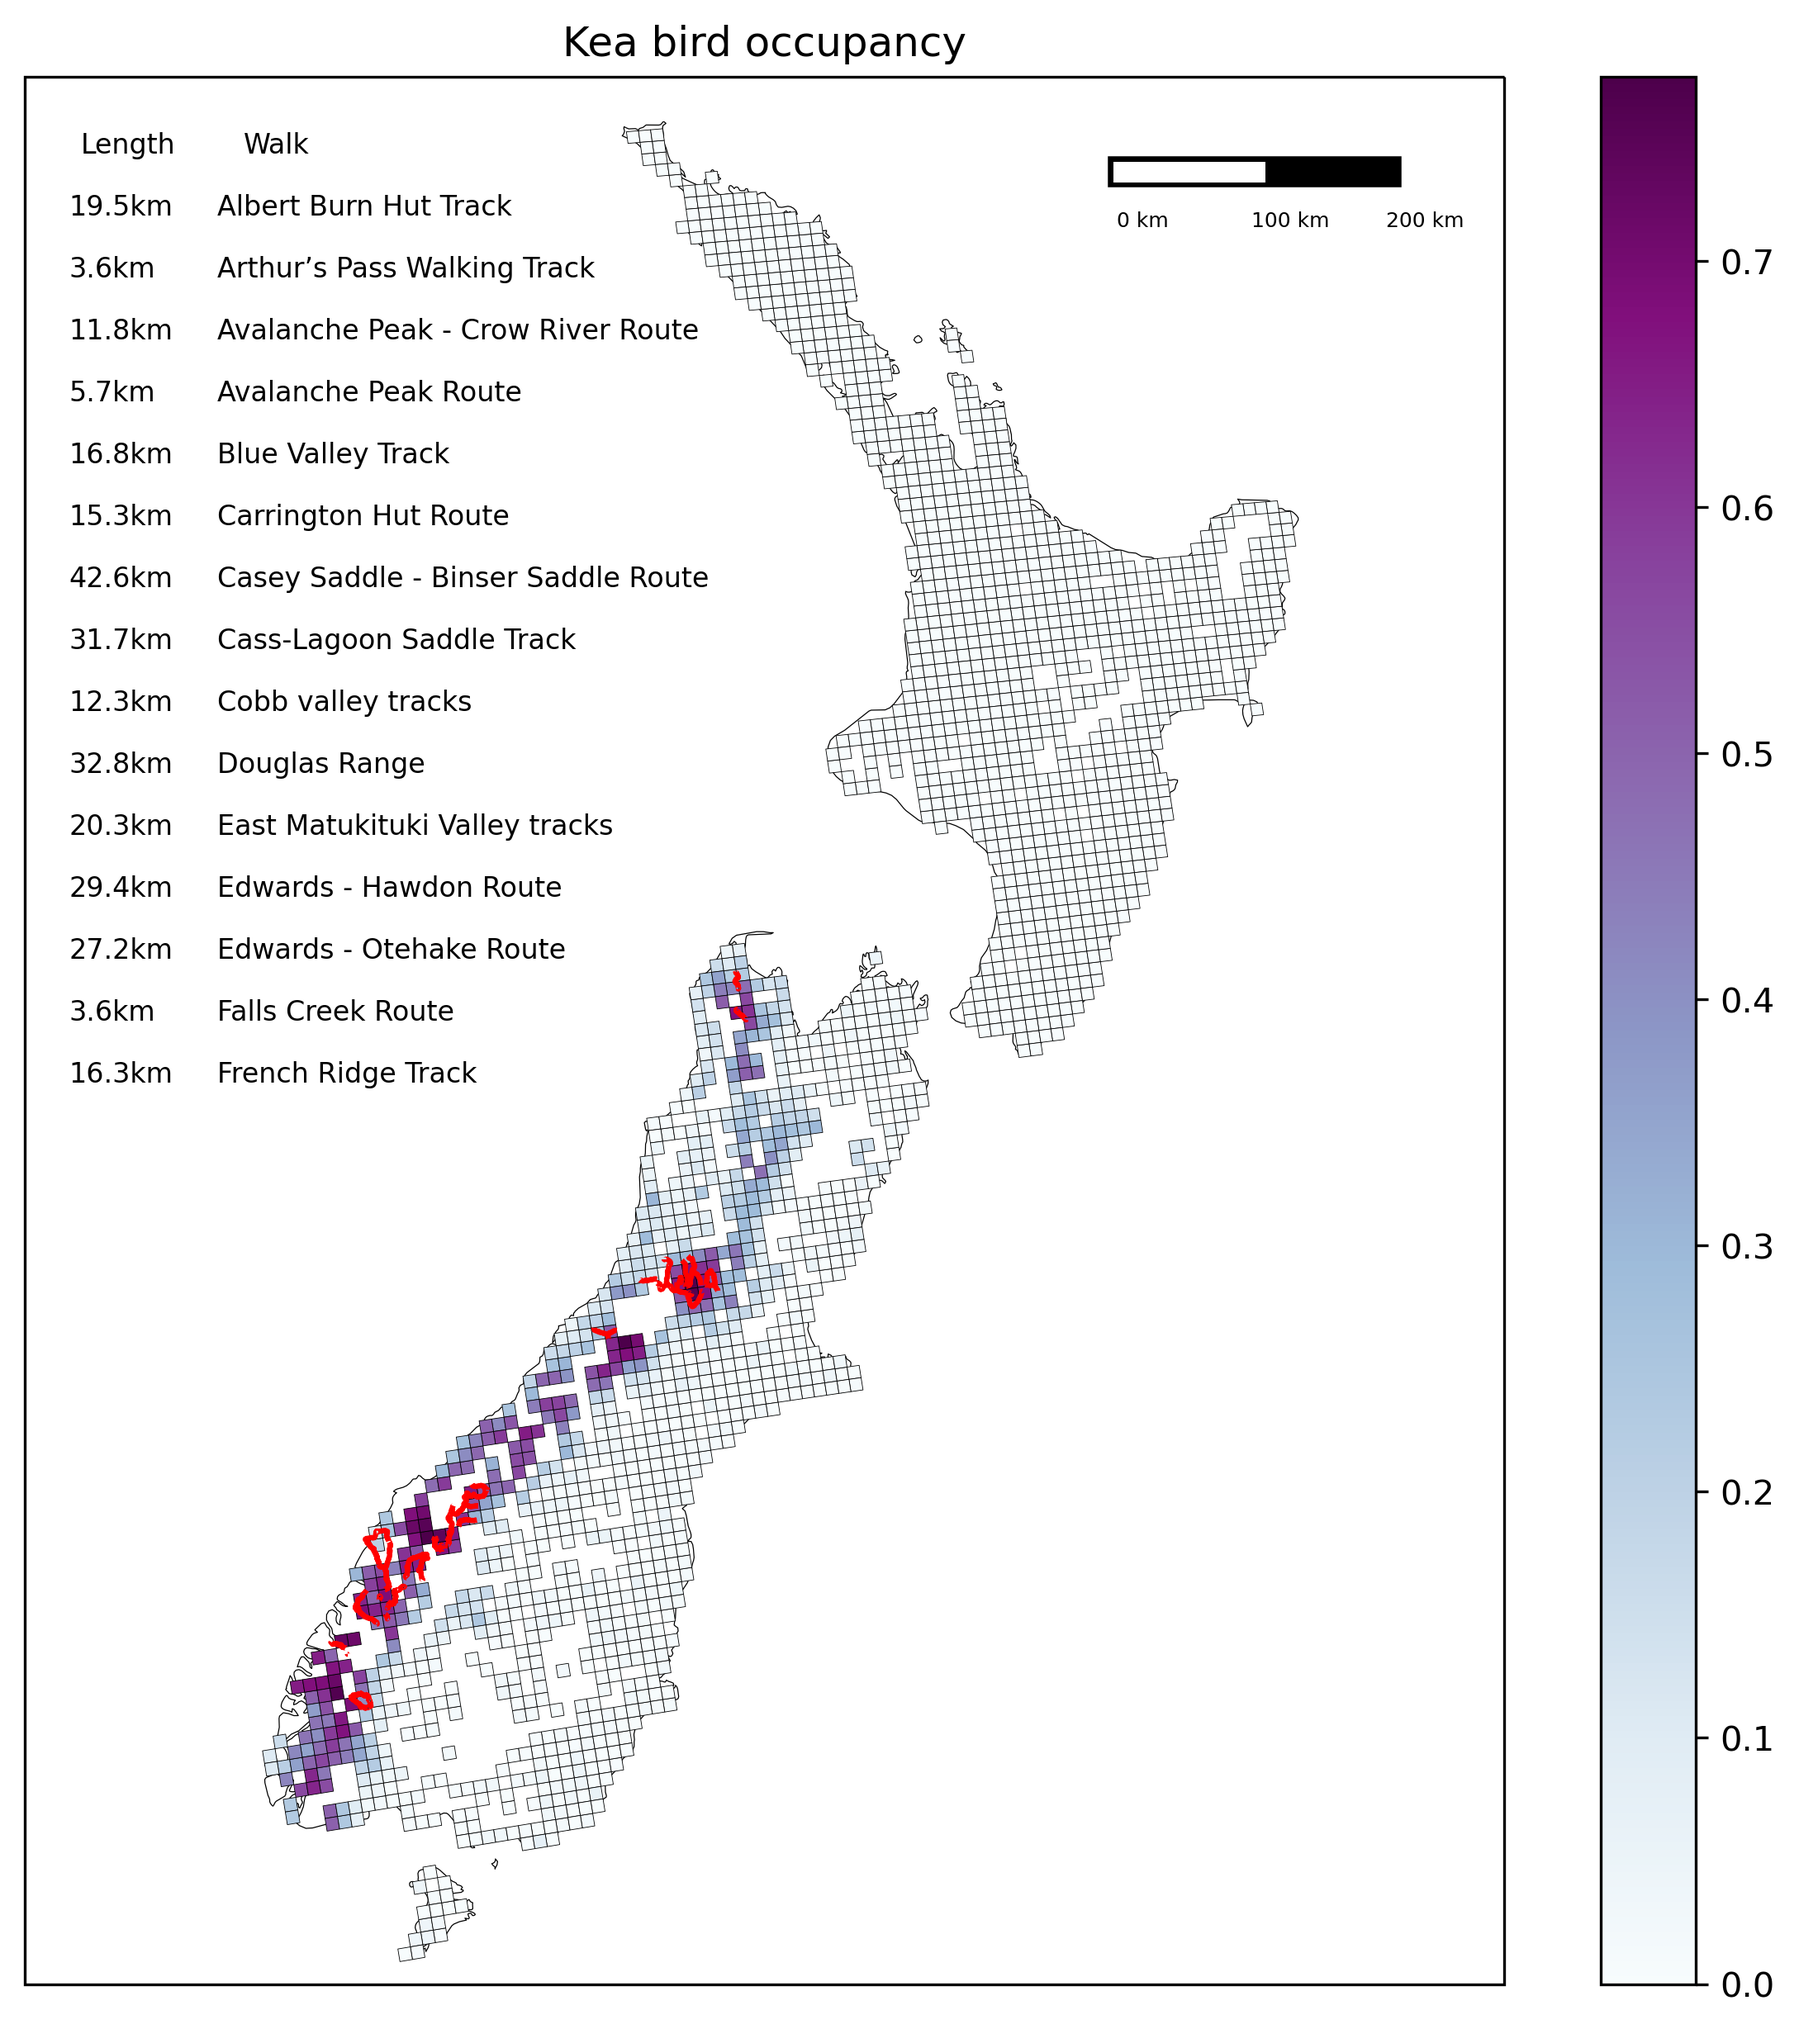
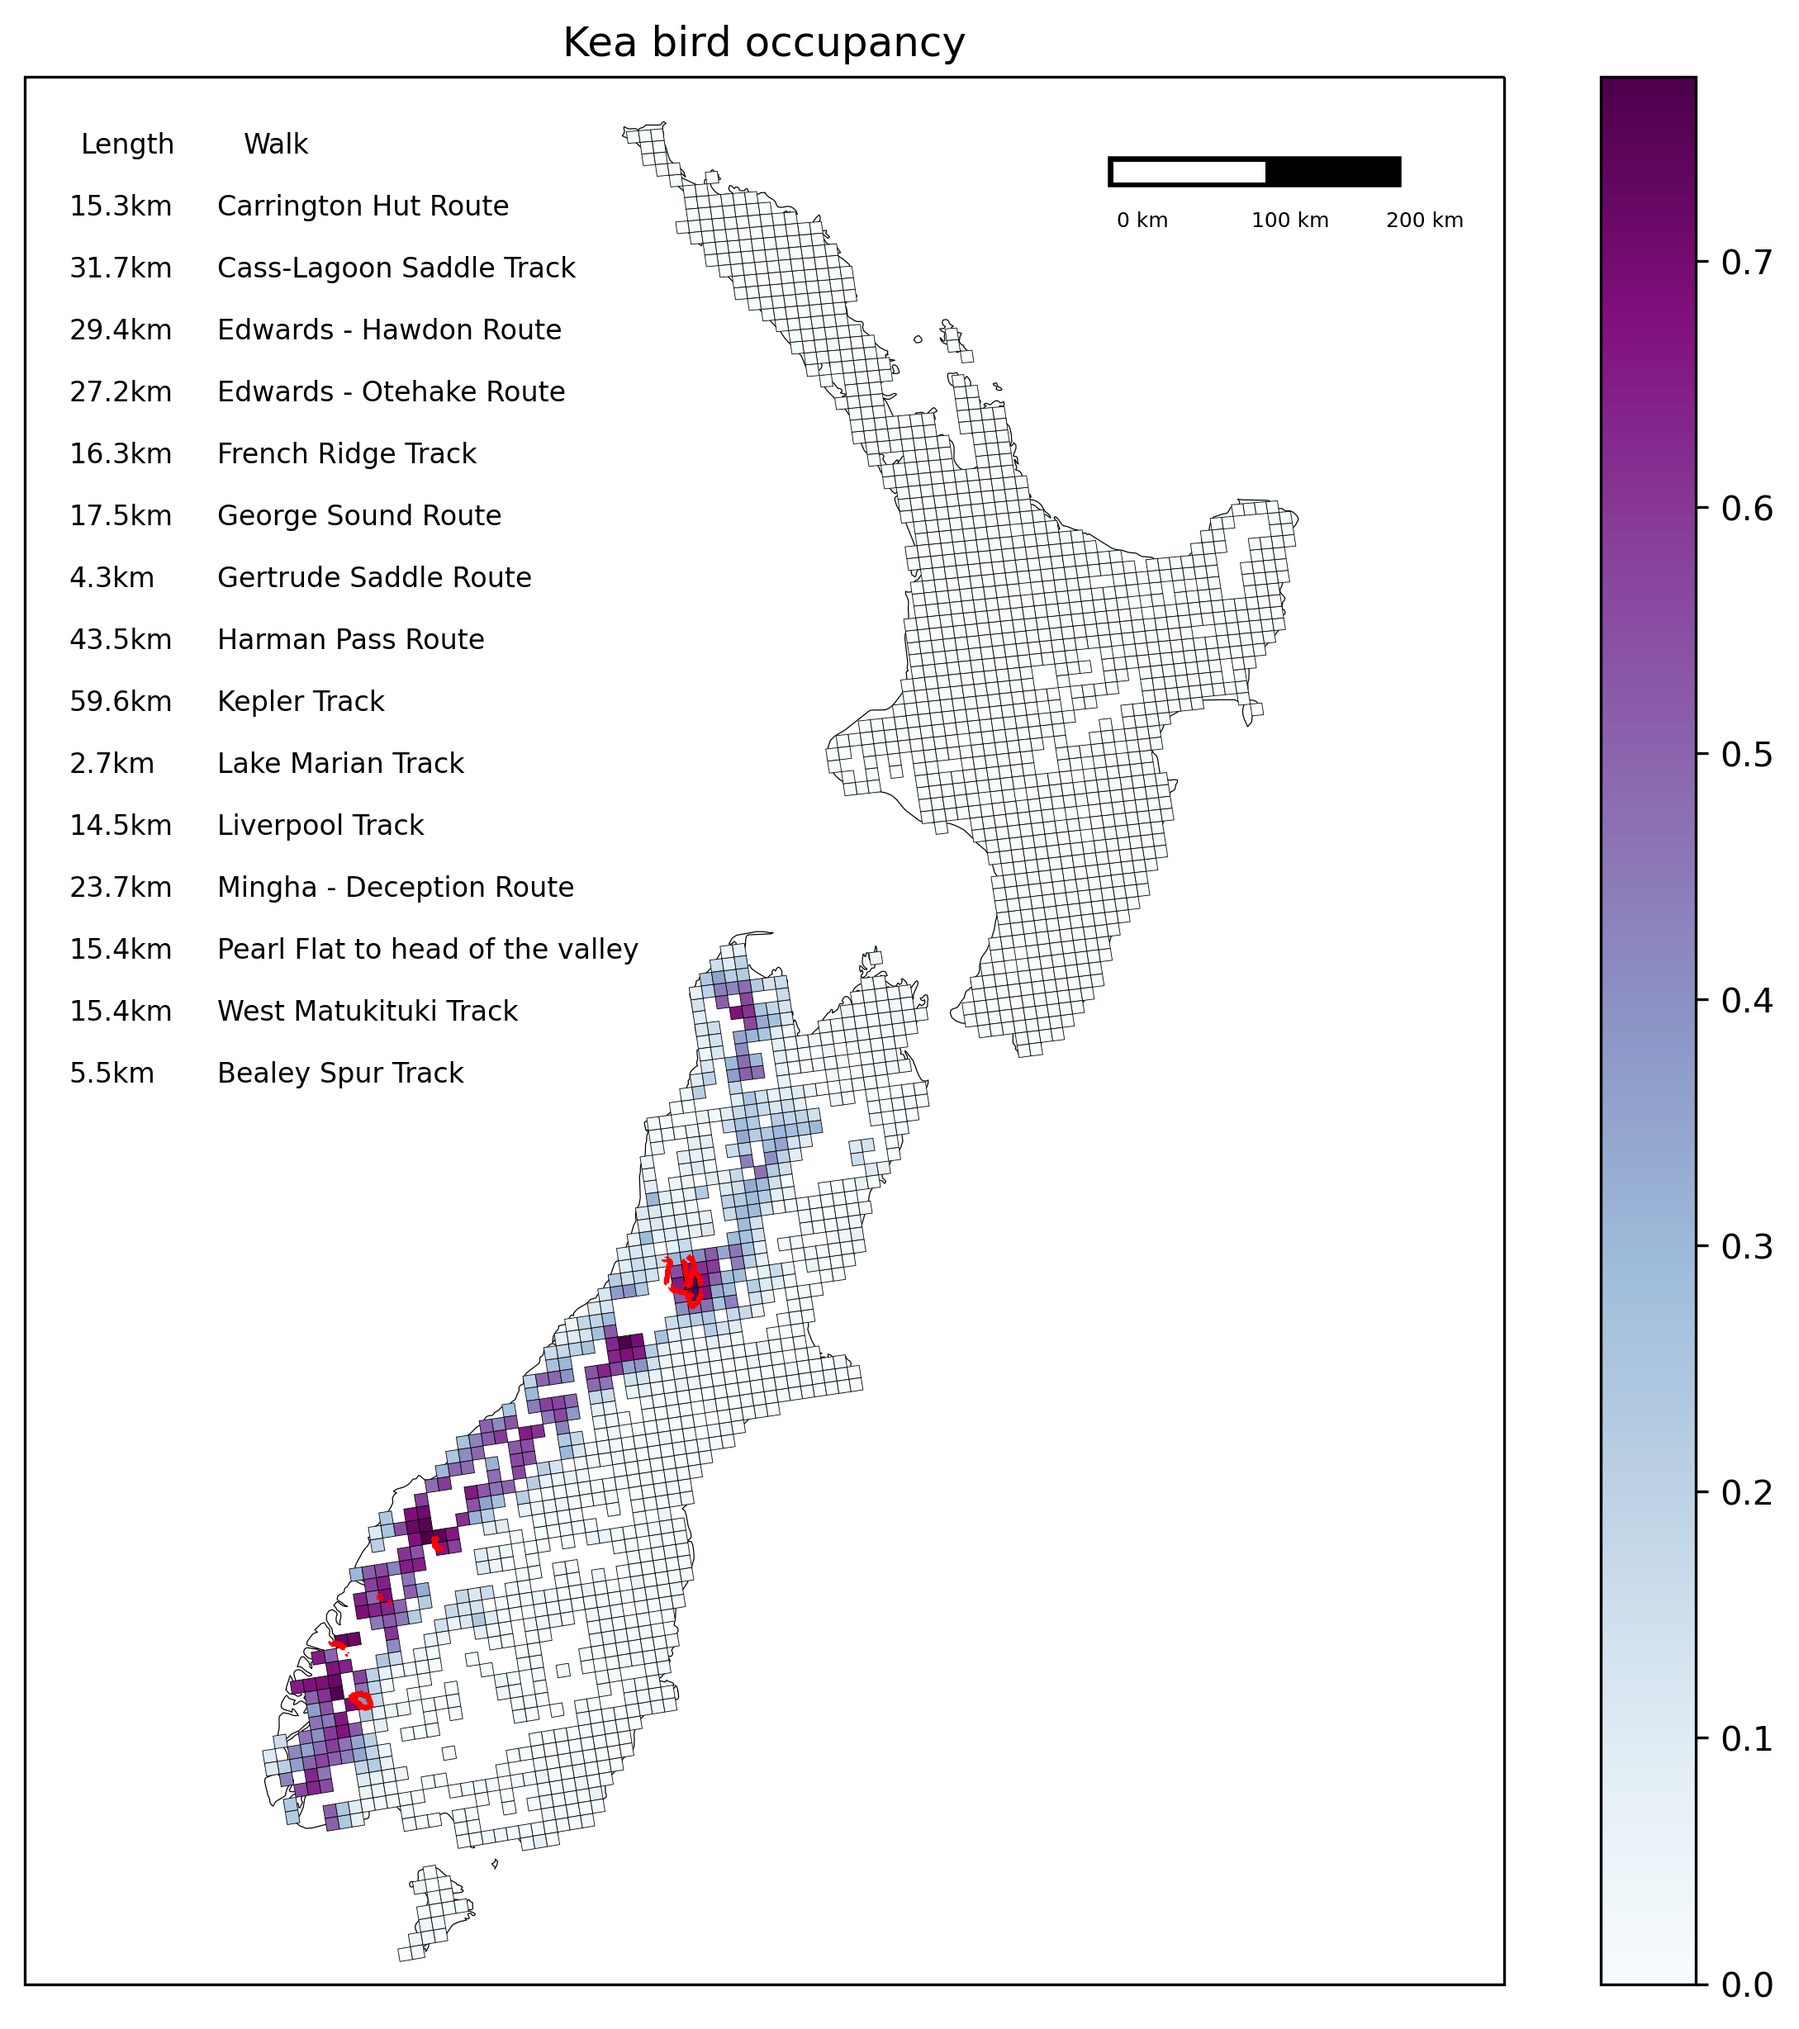
Bird search fixed

diff --git a/Intersection1/bird.py b/Intersection1/bird.py
@@ -162,7 +162,7 @@ grid_sorted = grid_sort.sort_values(by=f'{userselected}', axis=0, ascending=Fals
 
 
 
-# a loop that will run down the sorted grid data, from highest species occupancy until a intersect returns a True with a trail
+# a loop that will run down the sorted grid data, from highest species occupancy until a stopping at the 50th intersection
  
 found_intersection = False
 iteration = 1
@@ -183,7 +183,7 @@ while not found_intersection:
         print(f'Trail in grid {iteration}: no')
         iteration += 1
         
-    if iteration == 50:
+    if iteration == 50: # activating this will stop the loop at iteration/grid
         break
 
 
@@ -200,18 +200,37 @@ for sublist in intersection_list:
             intersect_id.append(value)
             seen_values.add(value)
 
-print('\nIdentified tracks in order of presence in higher bird occupany area')
+print('\nIdentified track IDs in order of presence in higher bird occupany area')
 print(intersect_id)
+intersect_id_trimmed = intersect_id[:15]
+print(intersect_id_trimmed)
+
+# create feature to highlight grids intercepted by track, limited to top 15
+intercepted_trails = trails[trails.index.isin(intersect_id_trimmed)]
+# print(intercepted_trails) # troubleshooting
 
 
-# create feature to highlight grids intercepted by track
-intercepted_trails = trails[trails.index.isin(intersect_id)]
+# Trying to get individual colours for each line.
+# Remains on to do list!
 
+# trail_id = list(intercepted_trails.geometry.unique())
+# range of 15 colours compatable with the grid's colormap to identify each trail
+# trailcolors = ['Red', 'Crimson', 'Maroon', 'Tomato', 'Coral', 'Gold', 'Yellow', 'LemonChiffon', 'LimeGreen', 'Green', 'OliveDrab', 'Chartreuse', 'MediumSeaGreen', 'ForestGreen', 'DarkGreen']
+
+# for ii, geometry in enumerate(trail_id):
+#   intercepted_trails_geometry = ShapelyFeature(intercepted_trails['geometry'],  # first argument is the geometry
+#    myCRS,  # second argument is the CRS
+#    edgecolor=trailcolors[ii],  # set the edgecolor to be royalblue
+#    facecolor='none',  # hopefully stops the multi-line being filled in
+#    linewidth=1.5)  # set the linewidth to be 0.2 pt
+
+
+# geometry for lines of trails identified, with single color.
 intercepted_trails_geometry = ShapelyFeature(intercepted_trails['geometry'],  # first argument is the geometry
- myCRS,  # second argument is the CRS
- edgecolor='red',  # set the edgecolor to be royalblue
- facecolor='none',  # hopefully stops the multi-line being filled in
- linewidth=1.5)  # set the linewidth to be 0.2 pt
+  myCRS,  # second argument is the CRS
+  edgecolor='red',  # set the edgecolor to be royalblue
+  facecolor='none',  # hopefully stops the multi-line being filled in
+  linewidth=1.5)  # set the linewidth to be 0.2 pt
 
 
 
